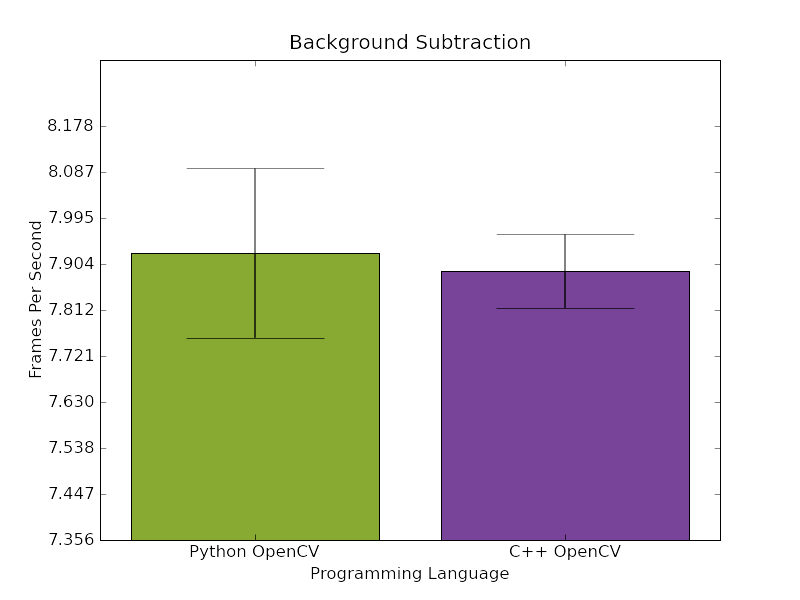
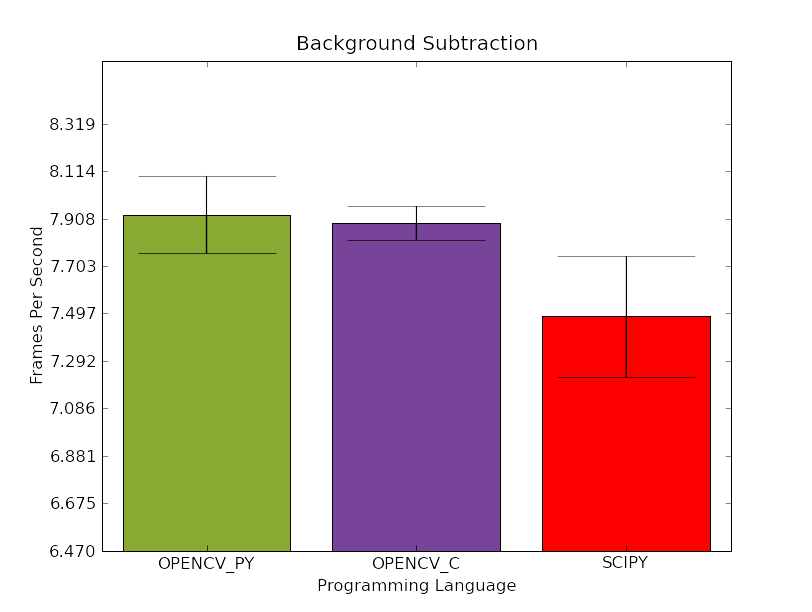
Added a scipy background subtract, updated timing and graphs

diff --git a/speed/report_data/plotting_results.py b/speed/report_data/plotting_results.py
@@ -10,9 +10,9 @@ import pylab
 
 
 def plot_compare(data, title, show=False):
-    python_cv_title = 'Python OpenCV'
-    c_title = 'C++ OpenCV'
-    scipy_title = 'SciPy'
+    python_cv_title = 'OPENCV_PY'
+    c_title = 'OPENCV_C'
+    scipy_title = 'SCIPY'
     try:
         python_data, c_data, scipy_data = data
         SCIPY = True
@@ -37,7 +37,7 @@ def plot_compare(data, title, show=False):
     #     marker='', mec='green', ms=300, mew=5)
     
     if SCIPY: 
-        bars3 = pylab.bar((3), scipy_data.mean(), yerr=scipy_data.std(), width=0.4, color='red', align='center', ecolor='black', capsize=50)
+        bars3 = pylab.bar((3), scipy_data.mean(), yerr=scipy_data.std(), width=0.8, color='red', align='center', ecolor='black', capsize=50)
         #pylab.legend((bars[0], bars2[0], bars3[0]), (python_cv_title,c_title ))
         pylab.xticks((1,2,3),(python_cv_title, c_title, scipy_title))
     else:
@@ -59,25 +59,34 @@ def plot_compare(data, title, show=False):
         pylab.show()
 
 def plot_webcam_results():
+    """I also did pygame here - it was also bang on 15 fps"""
     py_webcam_stream = pylab.array([15.0073, 15.0033,	15.0072]) #, 15.005808])
     cpp_webcam_stream = pylab.array([15.0170, 15.0092,	15.0101])#, 15.0177])
-    plot_compare((py_webcam_stream, cpp_webcam_stream),"_Streaming from webcam in OpenCV", True)
+    plot_compare((py_webcam_stream, cpp_webcam_stream),"Streaming from webcam in OpenCV", True)
 
-
-#plot_webcam_results()
 
 def plot_gaussian_results():
-    py_gaussian = pylab.array([ 14.555189, 14.736740, 13.988899])  # mean 14.4269, std: 0.318
-    scipy_gaussian = pylab.array([7.295238, 7.537303, 7.559511])   #mean: 7.4640173333 std:0.1196888920
-    cpp_gaussian = pylab.array([14.7219, 14.6268, 14.6117])    # mean: 14.6534, std: 0.048780
-    plot_compare(pylab.array([py_gaussian, cpp_gaussian, scipy_gaussian ]),"_Gaussian Blur", True)
+    py_gaussian = pylab.array([ 14.555189, 14.736740, 14.974582, 14.7518])
+    scipy_gaussian = pylab.array([8.026670, 7.9043, 7.7535,  8.0019])   
+    cpp_gaussian = pylab.array([14.7219, 14.6268, 14.6117, 15.246])    # mean: 14.6534, std: 0.048780
+    plot_compare(pylab.array([py_gaussian, cpp_gaussian, scipy_gaussian ]),"Gaussian Blur", True)
 
 def plot_background():
-    cpp_cv = pylab.array([7.8598, 7.9791, 7.93613, 7.906,7.766])    # mean: 14.6534, std: 0.048780
-    py_cv = pylab.array([7.61715 ,8.044 ,7.8716,8.046,8.047115 ])
-    plot_compare(pylab.array([py_cv, cpp_cv ]),"Background Subtraction", True)
+    cpp_cv = pylab.array([7.8598, 7.9791, 7.93613, 7.906, 7.766    ])    # mean: 14.6534, std: 0.048780
+    py_cv = pylab.array([7.61715, 8.044 , 7.8716 , 8.046, 8.047115 ])
+    scipy_one = pylab.array([7.581724, 7.815616, 7.481059, 7.52825, 7.014058])
+    plot_compare(pylab.array([py_cv, cpp_cv, scipy_one]),"Background Subtraction", True)
 
-plot_background()
+if __name__ == "__main__":
+    print "Plotting results now"
+    pylab.figure()
+    plot_webcam_results()
+    pylab.figure()
+    plot_gaussian_results() 
+    pylab.figure()
+    plot_background()
+
+
 
 #py_ = pylab.array([ ])
 #scipy_ = pylab.array([])
@@ -85,7 +94,3 @@ plot_background()
 
 #plot_compare(pylab.array([py_, cpp_, scipy_ ]),"title", True)
 
-
-#yc = 10*pylab.rand(3)
-#yr = 12*pylab.rand(3)
-#plot_compare(yc, yr,"testing....", True)

diff --git a/speed/back_sub_scipy.py b/speed/back_sub_scipy.py
@@ -1,0 +1,75 @@
+#!/usr/bin/env python
+"""
+~7fps
+Brian Thorne - September 09
+
+"""
+
+from __future__ import division
+import numpy as np
+from numpy import array, uint8
+from scipy import signal, ndimage
+from VideoCapturePlayer import VideoCapturePlayer as VCP
+from misc import scipyFromOpenCV, opencvFilt2sigma
+
+from IPython.Shell import IPShellEmbed
+from scipy.ndimage import morphology
+
+
+@scipyFromOpenCV
+def threshold_image(np_image, n=[]):
+    """Record the first 5 images to get a background, then diff current frame with the last saved frame.
+    """
+    if len(n) < 5:
+        # n[4] will be our background
+        # First capture a few images
+        n.append(np_image[:])
+        if len(n) == 5:
+            # last time here 
+            #n[4] = ndimage.filters.gaussian_filter(n[4],3,order=0)
+            pass 
+        return np_image
+    original = n[4]
+    img = np_image[:]
+    
+    
+    #IPShellEmbed()()
+    differenceImage = abs(np_image.astype(float) - original.astype(float)).astype(uint8)
+    # filter out random noise
+    #differenceImage = ndimage.median_filter(differenceImage,size=3)
+    
+    """The threshold value determines the amount of "Change" required 
+    before something will show up"""
+    thresholdValue = 30
+    # Take the N-Dimensional difference (3 channels of binary)
+    differenceImage = (differenceImage >= thresholdValue)
+    
+    # Convert this to one channel binary
+    differenceImage = differenceImage.mean(2).astype(bool)
+    
+    # Smooth the edges of the mask
+    #differenceImage = ndimage.filters.gaussian_filter(differenceImage,0.5) 
+    
+    # Remove Salt & Pepper Noise
+    differenceImage = ndimage.median_filter(differenceImage,size=5)
+    
+    
+    #IPShellEmbed()()
+    output = np.zeros(img.shape).astype(img.dtype)
+    output[differenceImage] = img[differenceImage]
+    return output
+
+
+
+def main():
+    title = "SciPy Background Subtraction"
+    
+    VCP(threshold_image,title=title).main()
+    
+
+if __name__ == "__main__": 
+    #testGaussianBlur()
+    main()
+    #import cProfile
+    #cProfile.run("main()",'python_profile_data')
+

diff --git a/speed/blur_scipy.py b/speed/blur_scipy.py
@@ -101,10 +101,12 @@ def mlGaussianBlur(image):
     return img
 ########
 
+sigma = opencvFilt2sigma(43.0)
+
 @scipyFromOpenCV
 def gaussianBlur(np_image):
     """Blur an image with scipy"""
-    sigma = opencvFilt2sigma(43.0)
+    
     
     result = ndimage.filters.gaussian_filter(np_image, 
                             sigma=(sigma, sigma, 0),

diff --git a/pycam/VideoCapturePlayer.py b/pycam/VideoCapturePlayer.py
@@ -4,7 +4,7 @@ import numpy
 import exceptions
 
 import logging
-verbose = True
+verbose = False
 # Todo replace with proper pythonic logging
 
 logging.debug("Pygame Version: %s" % pygame.__version__)
